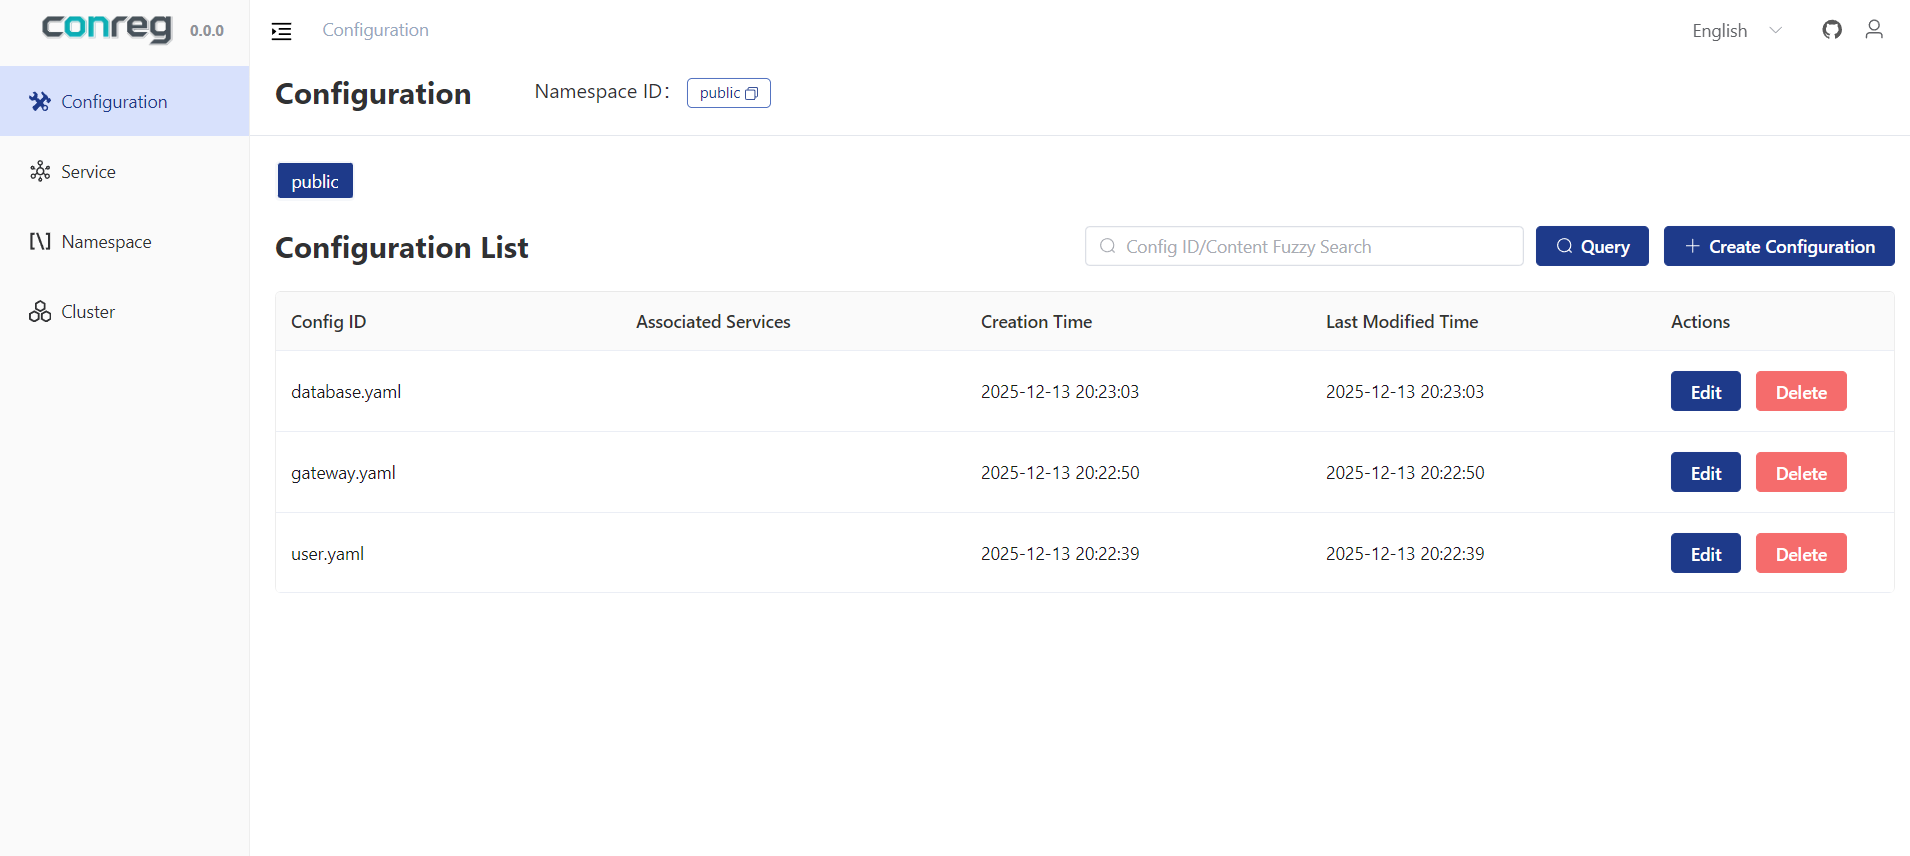
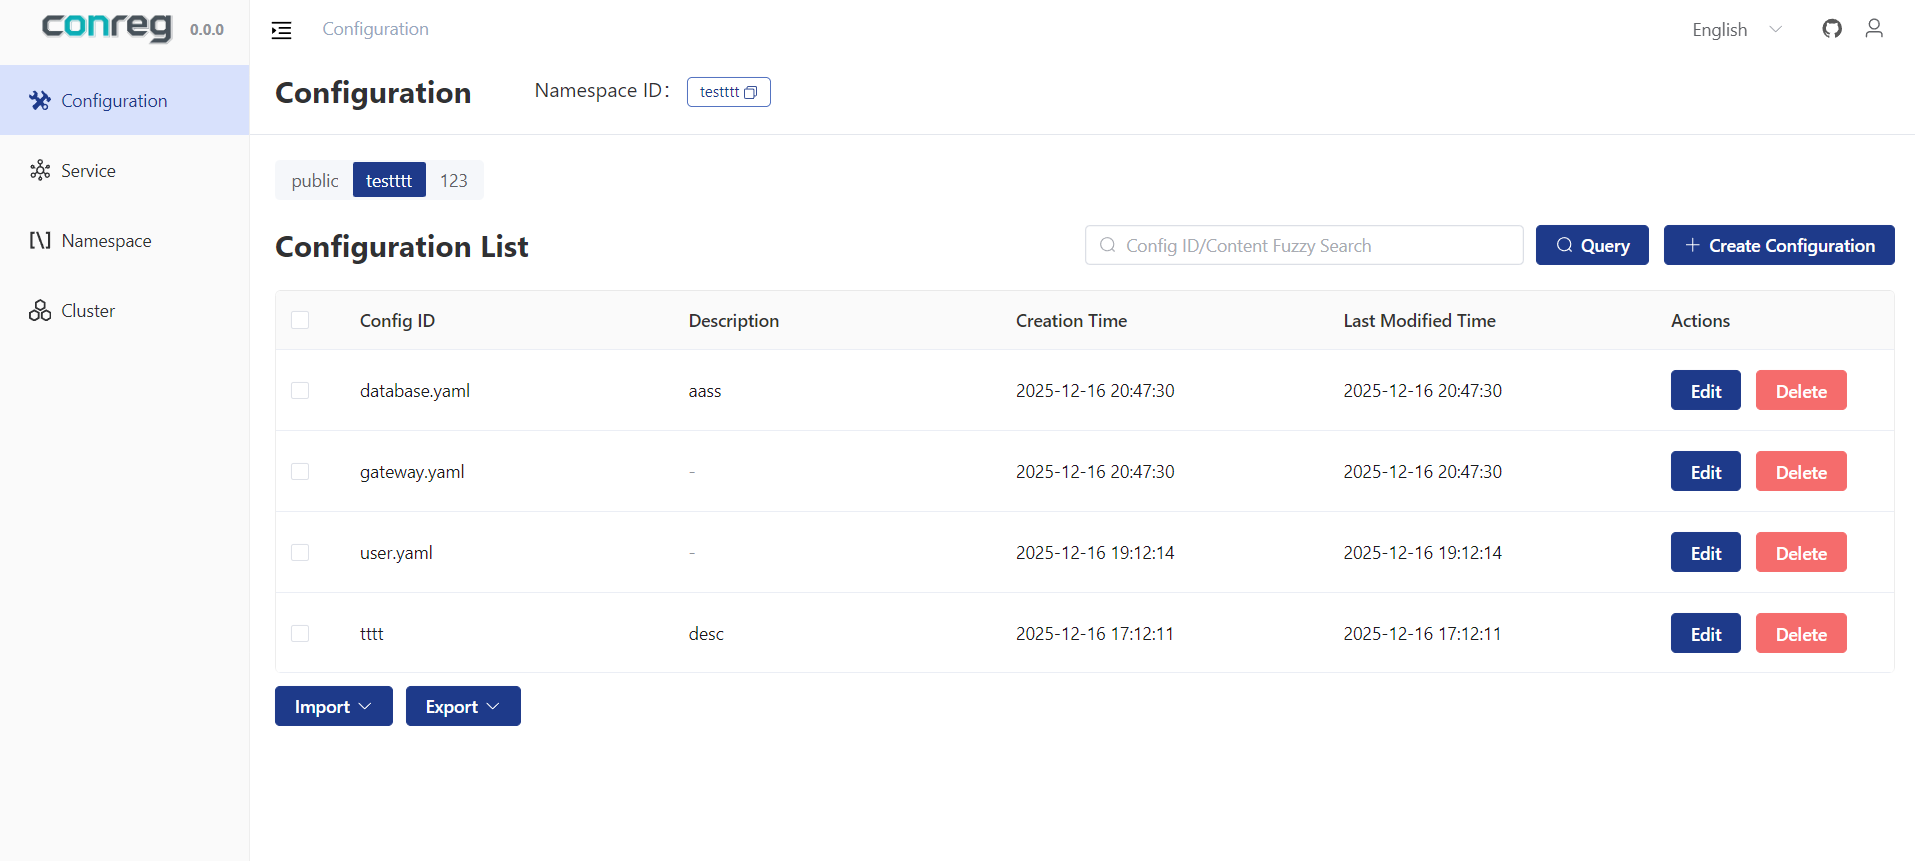
feat(config): support config export

diff --git a/conreg-server/src/config/server/mod.rs b/conreg-server/src/config/server/mod.rs
@@ -3,13 +3,15 @@ use crate::db::DbPool;
 use crate::protocol::id;
 use crate::raft::RaftRequest;
 use crate::raft::api::raft_write;
-use anyhow::bail;
+use anyhow::{Context, bail};
 use chrono::{DateTime, Local};
 use dashmap::DashMap;
+use indexmap::IndexMap;
+use rocket::fs::TempFile;
 use serde::{Deserialize, Serialize};
 use std::collections::BTreeMap;
 use std::fmt::Debug;
-use std::io::Write;
+use std::io::{Cursor, Write};
 use tracing::log;
 
 pub mod api;
@@ -435,15 +437,21 @@ impl ConfigManager {
             list
         };
 
+        // 元数据
+        // yaml格式：
+        // metadata:
+        // - id: xxx
+        //   format: xxx
+        //   description: xxx
         let mut metadata = Vec::new();
         let mut buffer = Vec::new();
-        let mut zip = zip::ZipWriter::new(std::io::Cursor::new(&mut buffer));
+        let mut zip = zip::ZipWriter::new(Cursor::new(&mut buffer));
 
         for item in list.into_iter() {
             zip.start_file(&item.id, zip::write::FileOptions::<()>::default())?;
             zip.write_all(item.content.as_bytes())?;
 
-            metadata.push(indexmap::IndexMap::from([
+            metadata.push(IndexMap::from([
                 ("id", item.id),
                 ("format", item.format),
                 ("description", item.description.unwrap_or_default()),
@@ -458,6 +466,63 @@ impl ConfigManager {
         let bytes = zip.finish()?;
 
         Ok(bytes.into_inner().to_owned())
+    }
+
+    pub(crate) async fn import<'a>(
+        &self,
+        namespace_id: &String,
+        file: TempFile<'a>,
+        is_overwrite: bool,
+    ) -> anyhow::Result<()> {
+        let mut stream = file.open().await?;
+
+        let mut buffer = Vec::new();
+        tokio::io::copy(&mut stream, &mut buffer).await?;
+
+        let mut zip = zip::ZipArchive::new(Cursor::new(buffer))?;
+
+        // 读取元数据文件内容
+        let mf_content = {
+            let mut mf = zip.by_name(".metadata.yaml")?;
+            let mut buf = Vec::new();
+            std::io::copy(&mut mf, &mut buf)?;
+            buf
+        };
+        let metadata: IndexMap<String, Vec<IndexMap<String, String>>> =
+            serde_yaml::from_slice(&mf_content)?;
+
+        let mut items = metadata.get("metadata").context("no metadata")?.clone();
+        items.reverse();
+
+        for item in items {
+            let id = item.get("id").unwrap();
+
+            if self.get_config(namespace_id, id).await?.is_some() && !is_overwrite {
+                log::info!("config {} already exists in {}, skip", id, namespace_id);
+                continue;
+            }
+
+            let format = item.get("format").context("no format")?;
+            let description = item.get("description");
+
+            let mut file = zip.by_name(id)?;
+
+            let mut content = Vec::new();
+            std::io::copy(&mut file, &mut content)?;
+
+            log::info!("importing config {} to {}", id, namespace_id);
+
+            self.upsert_config_and_sync(
+                namespace_id,
+                id,
+                &String::from_utf8_lossy(&content).to_string(),
+                description.map(|s| s.to_string()),
+                format,
+            )
+            .await?;
+        }
+
+        Ok(())
     }
 }
 

diff --git a/conreg-server/src/config/server/api.rs b/conreg-server/src/config/server/api.rs
@@ -2,6 +2,8 @@ use crate::app::get_app;
 use crate::auth::UserPrincipal;
 use crate::config::server::ConfigEntry;
 use crate::protocol::res::{PageRes, Res};
+use rocket::form::Form;
+use rocket::fs::TempFile;
 use rocket::serde::json::Json;
 use serde::{Deserialize, Serialize};
 use tracing::log;
@@ -15,7 +17,8 @@ pub fn routes() -> Vec<rocket::Route> {
         list,
         list_history,
         watch,
-        export
+        export,
+        import
     ]
 }
 
@@ -47,6 +50,13 @@ struct ExportConfigReq {
     namespace_id: String,
     ids: Vec<String>,
     is_all: bool,
+}
+
+#[derive(Debug, FromForm)]
+struct ImportConfigReq<'a> {
+    namespace_id: String,
+    file: TempFile<'a>,
+    is_overwrite: bool,
 }
 /// 创建或更新配置
 ///
@@ -212,5 +222,20 @@ async fn export(
             log::error!("export config error: {}", e);
             Err(rocket::http::Status::InternalServerError)
         }
+    }
+}
+
+/// 导入配置
+#[post("/import", data = "<req>")]
+async fn import(req: Form<ImportConfigReq<'_>>, _user: UserPrincipal) -> Res<()> {
+    let req = req.into_inner();
+    match get_app()
+        .config_app
+        .manager
+        .import(&req.namespace_id, req.file, req.is_overwrite)
+        .await
+    {
+        Ok(_) => Res::success(()),
+        Err(e) => Res::error(&e.to_string()),
     }
 }
